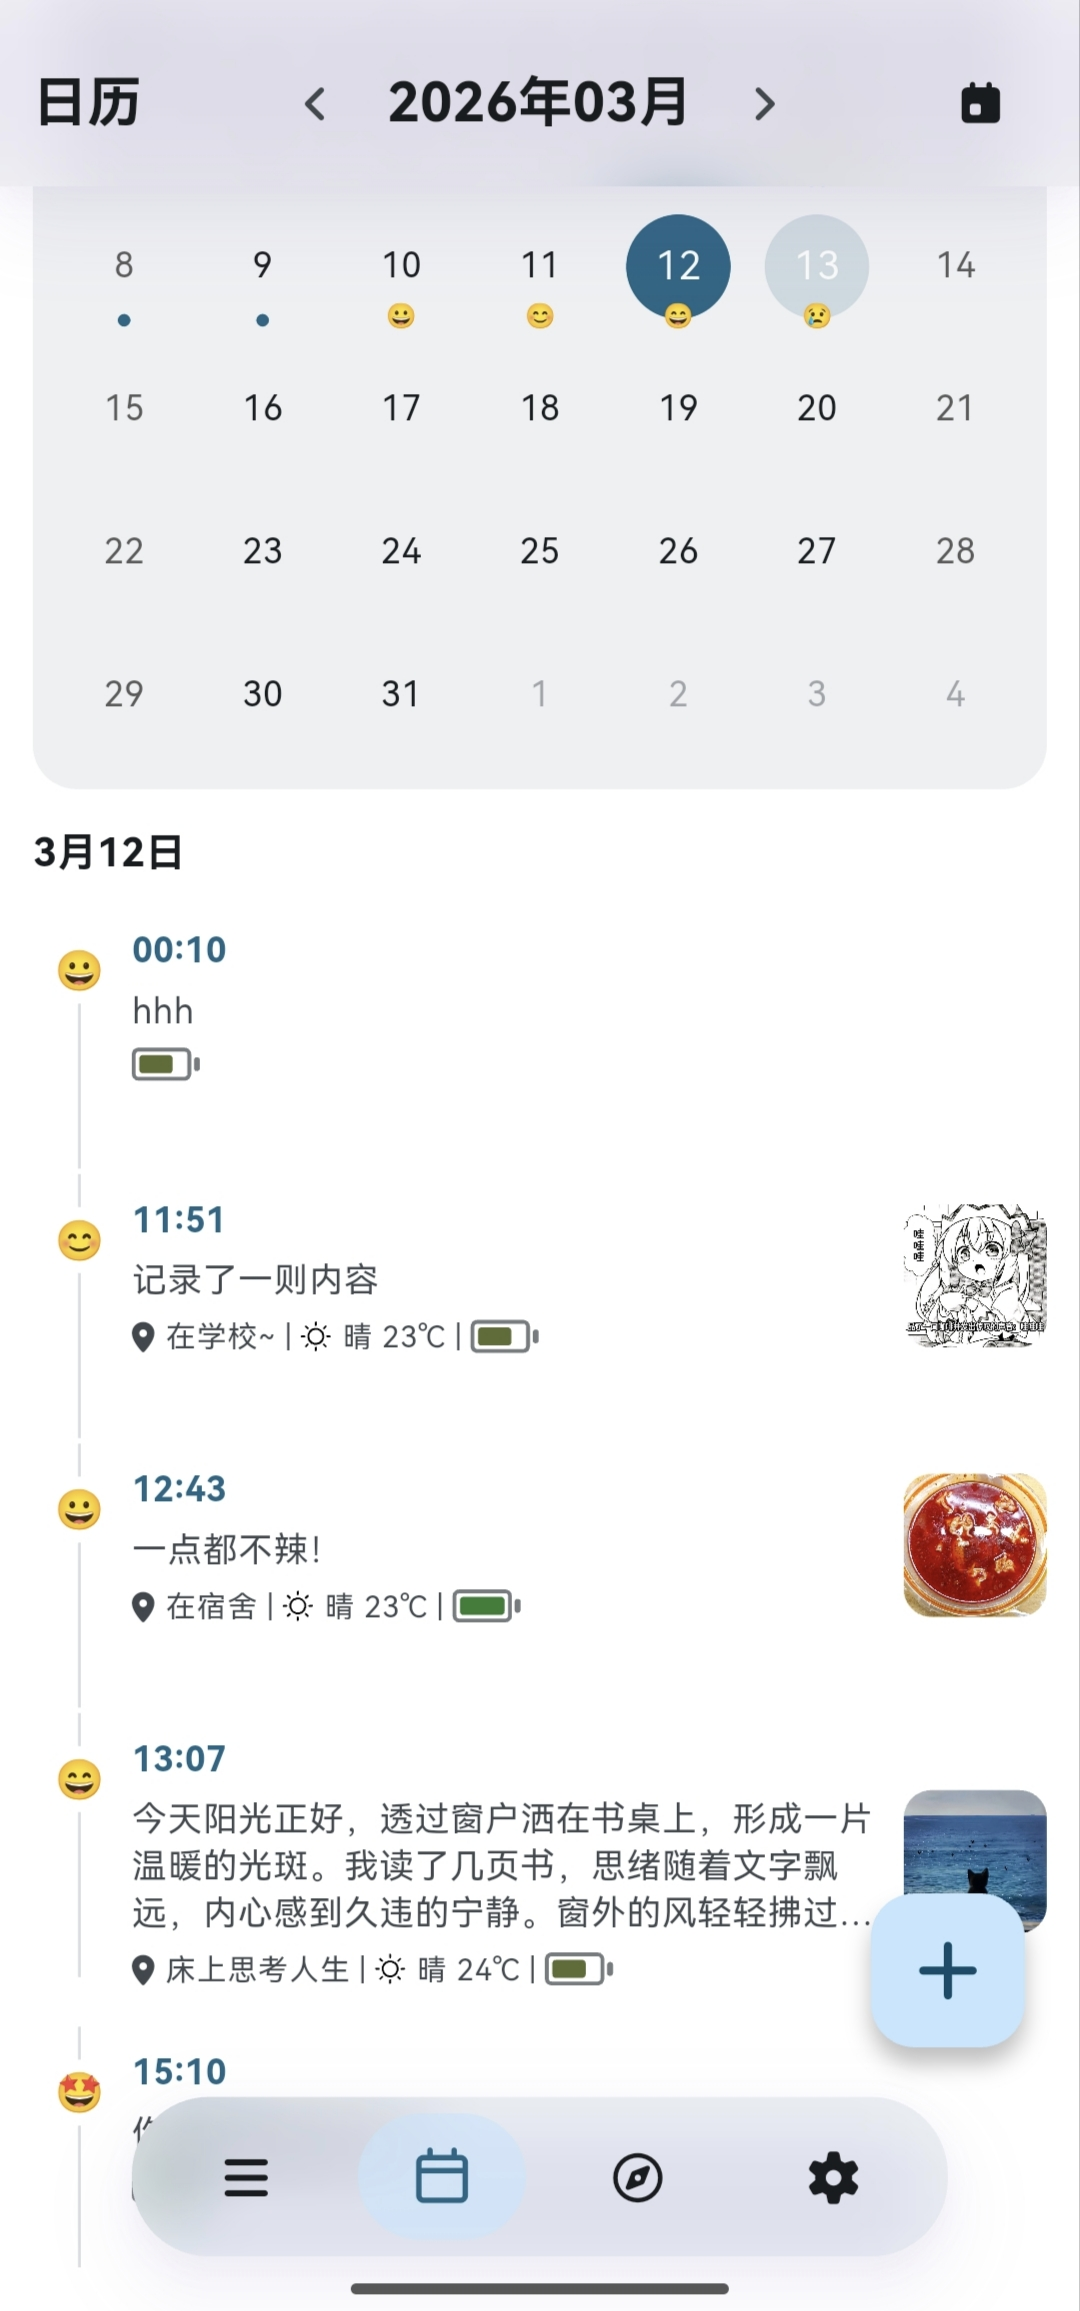
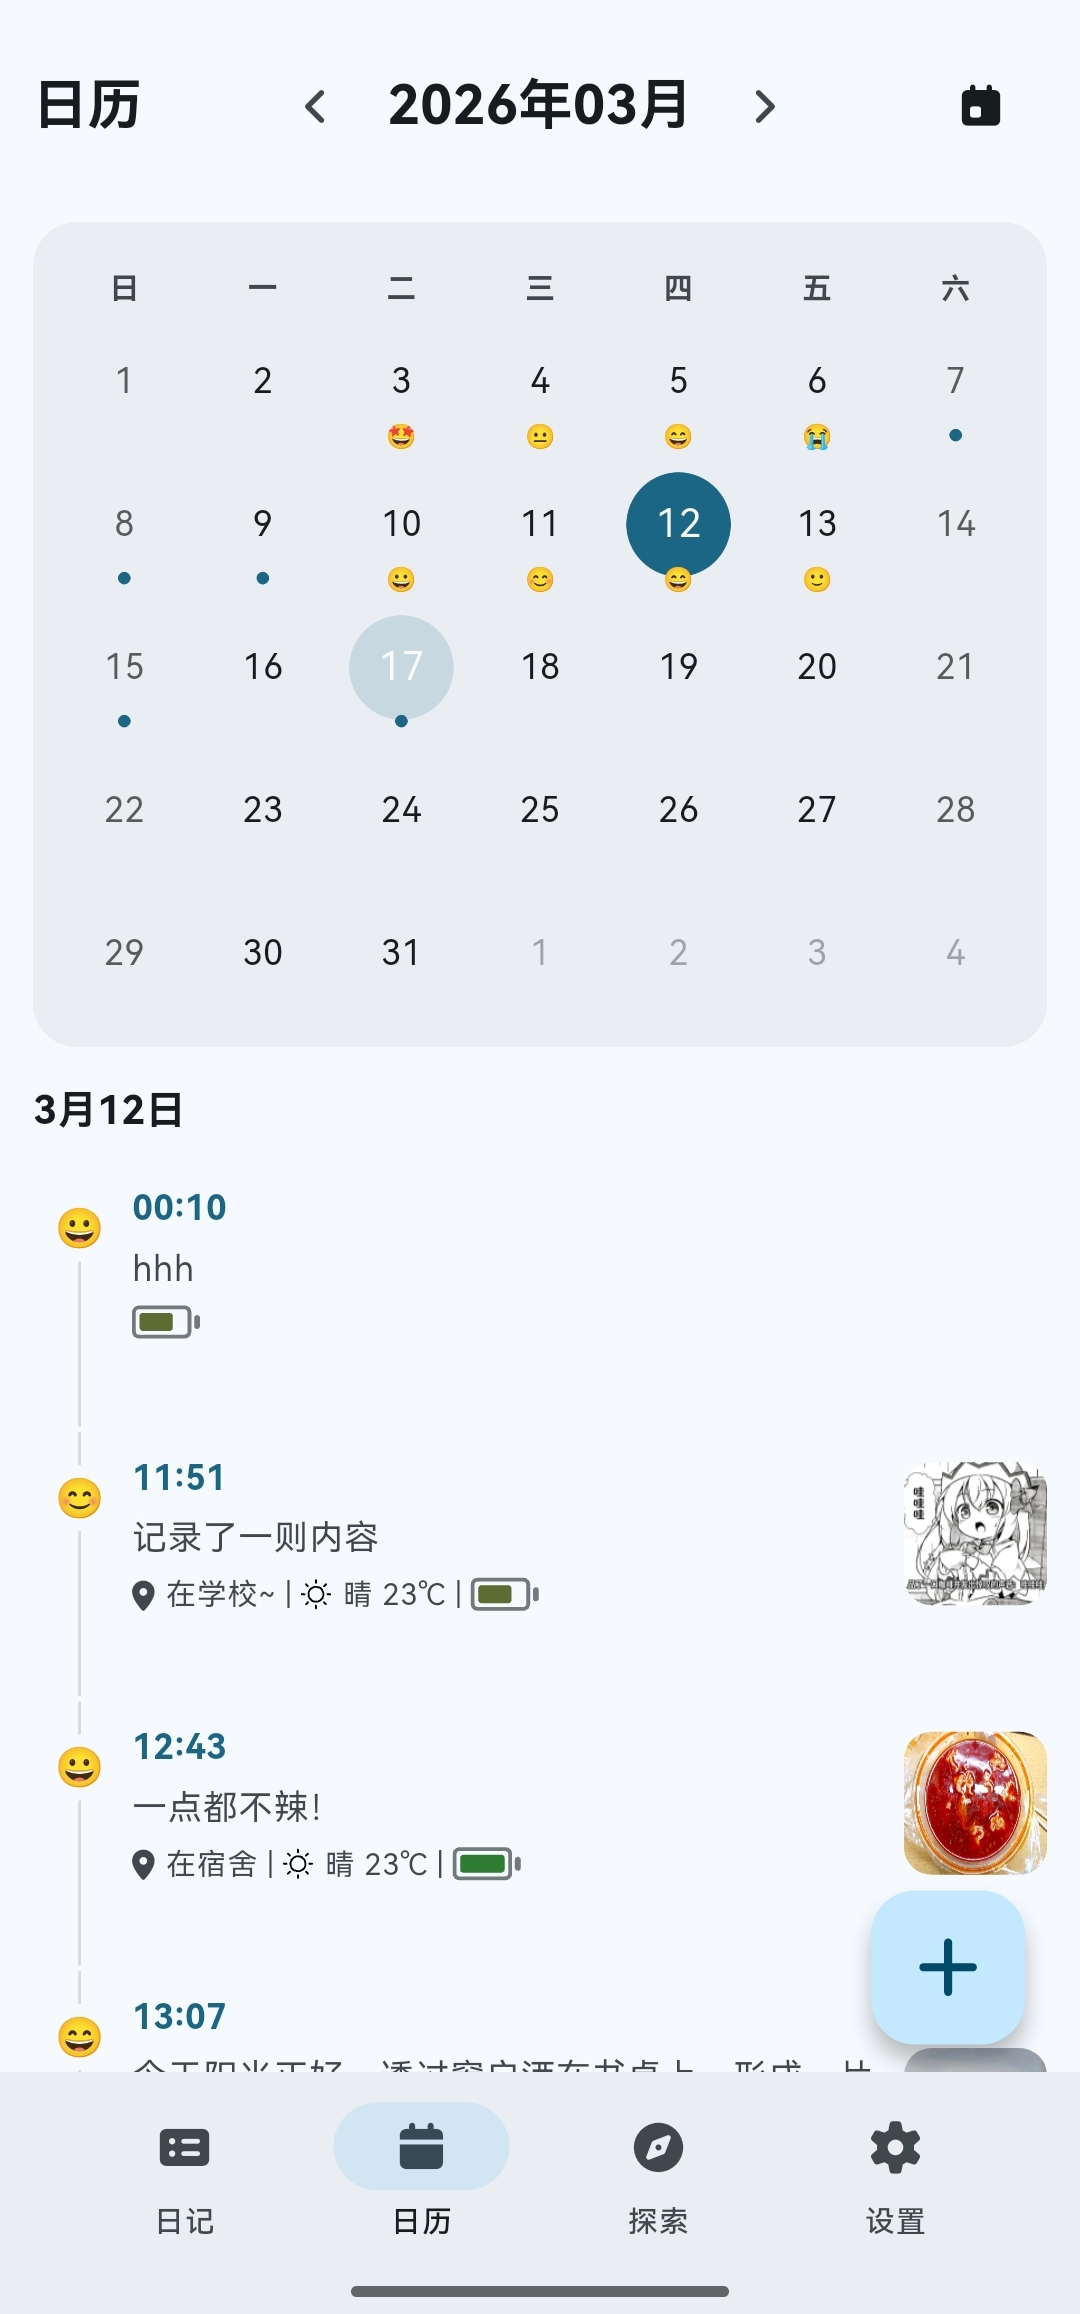
docs: 默认中文展示并补充双语发布说明

diff --git a/README.md b/README.md
@@ -1,70 +1,66 @@
-# Jot - A Simple & Private Local Diary
+# Jot - 简单私密的本地日记本
 
-English | [简体中文](./docs/README.zh.md)
+[English](./docs/README.en.md) | 简体中文
 
 ![Release](https://img.shields.io/badge/Release-v0.1.0-orange?style=flat-square)
 
-Jot is a fully free and open-source local diary app.  
-The goal is simple: provide a clean writing tool with no ads, no forced account signup, and no network dependency.
+Jot 是一款完全免费、开源的本地日记应用。开发这款应用的初衷很简单：希望能有一个没有任何广告打扰、不用强制注册账号、不需要连网就能使用的纯粹记录工具。
 
-Here, you can safely write down your mood, quick thoughts, or daily notes.  
-All your diary entries and photos stay on your own phone and are fully under your control.
+在这里，你可以安心地记录每天的心情、随手的灵感或是生活流水账。你的所有日记和照片都只存放在你自己的手机里，完全由你自己掌控。
 
-## 📱 Screenshots
+## 📱 界面预览
 
 <div align="center">
-  <img src="assets/img/screenshots/home_list.jpg" width="30%" alt="Timeline View"/>
+  <img src="assets/img/screenshots/home_list.jpg" width="30%" alt="时间线视图"/>
   &nbsp;&nbsp;
-  <img src="assets/img/screenshots/diary_editor.jpg" width="30%" alt="Diary Editor"/>
+  <img src="assets/img/screenshots/diary_editor.jpg" width="30%" alt="日记编辑页"/>
   &nbsp;&nbsp;
-  <img src="assets/img/screenshots/calendar_overview.jpg" width="30%" alt="Calendar & Insights"/>
+  <img src="assets/img/screenshots/calendar_overview.jpg" width="30%" alt="时光日历与统计"/>
 </div>
 
-## 🌟 Core Features
+## 🌟 核心功能
 
-### ✍ Focused Writing Experience
+### ✍ 纯粹的写作体验
 
-A minimal interface with rich text and image support, designed to keep you focused on writing.
+极简的界面设计，支持图文混排，让你专注于写字本身。
 
-### 🏷 Environment Context Capture
+### 🏷 自动记录环境信息
 
-Jot can fetch weather and location while you write (with permission), and you can also edit them manually.  
-You can additionally record mood emoji and energy status for better reflection later.
+不只是一段文字。在你写日记时，应用可以获取当前天气和位置信息（需授权），你也可以手动调整。  
+同时支持记录心情 Emoji 与精力状态，方便后续回顾。
 
-### 📅 Calendar & Memories
+### 📅 日历与回忆
 
-Calendar view helps you revisit entries by date, and "On This Day" brings back memories from previous years.
+日历视图会根据你每天的记录展示状态。通过“那年今日”能力，你可以轻松翻看历史同期记忆。
 
-### 🔒 Strong Privacy by Default
+### 🔒 绝对的隐私安全
 
-- Local-first: no cloud server is required by default.
-- App lock: supports system biometric/device authentication.
-- Data export: supports encrypted backup export for your own storage.
+- 完全本地化：没有云端服务器，日记数据默认不上传。
+- 应用锁：支持系统生物认证/设备认证解锁，保护隐私。
+- 数据导出：支持加密打包导出，方便你自行备份到电脑或网盘。
 
-## 📥 Download & Install
+## 📥 下载与安装
 
-> ⚠ Note: Jot is currently in an early stage and only supports Android for now. More platforms may be supported later.
+> ⚠ 注：Jot 当前处于早期版本，暂时仅支持 Android，后续支持更多设备。
 
-Install steps:
+安装方式：
 
-1. Open the Releases page:  
+1. 进入项目 Releases 页面：  
    [https://github.com/CikeSeven/jotsy/releases](https://github.com/CikeSeven/jotsy/releases)
-2. Download the latest APK package.
-3. If you're not sure which one to choose, download the `arm64-v8a` build.
+2. 下载最新的安装包。
+3. 如果你不知道下载哪一个，建议下载 `arm64-v8a` 版本。
 
-## 💬 FAQ
+## 💬 常见问题
 
-### Q: How do I migrate my diary data to a new phone?
+### Q: 换新手机了，日记怎么迁移？
 
-A: Since Jot is local-first, there is no automatic cloud sync.  
-Use "Export Backup" in Settings on your old phone, transfer the backup file, then import it on the new phone.
+A: 由于应用是纯本地存储，不会自动云同步。请在旧手机“设置”中使用“导出备份”生成备份文件，传到新手机后再通过“导入备份”恢复数据。
 
-### Q: Why can't weather/location be fetched?
+### Q: 为什么获取不到天气和定位？
 
-A: Please check location permission and network status.  
-Location is only used for display in your diary entry and is not uploaded as tracking data.
+A: 请检查是否授予了位置信息权限，以及网络是否正常。位置信息仅用于当前日记展示，不会用于上传轨迹。
 
-## 🐛 Feedback & Suggestions
+## 🐛 反馈与建议
 
-Found a bug or have an idea? Please open an issue:  
+如果你遇到 Bug，或有新功能建议，欢迎到 GitHub Issues 反馈：  
 [https://github.com/CikeSeven/jotsy/issues](https://github.com/CikeSeven/jotsy/issues)

diff --git a/docs/README.en.md b/docs/README.en.md
@@ -1,0 +1,70 @@
+# Jot - A Simple & Private Local Diary
+
+English | [简体中文](../README.md)
+
+![Release](https://img.shields.io/badge/Release-v0.1.0-orange?style=flat-square)
+
+Jot is a fully free and open-source local diary app.  
+The goal is simple: provide a clean writing tool with no ads, no forced account signup, and no network dependency.
+
+Here, you can safely write down your mood, quick thoughts, or daily notes.  
+All your diary entries and photos stay on your own phone and are fully under your control.
+
+## 📱 Screenshots
+
+<div align="center">
+  <img src="../assets/img/screenshots/home_list.jpg" width="30%" alt="Timeline View"/>
+  &nbsp;&nbsp;
+  <img src="../assets/img/screenshots/diary_editor.jpg" width="30%" alt="Diary Editor"/>
+  &nbsp;&nbsp;
+  <img src="../assets/img/screenshots/calendar_overview.jpg" width="30%" alt="Calendar & Insights"/>
+</div>
+
+## 🌟 Core Features
+
+### ✍ Focused Writing Experience
+
+A minimal interface with rich text and image support, designed to keep you focused on writing.
+
+### 🏷 Environment Context Capture
+
+Jot can fetch weather and location while you write (with permission), and you can also edit them manually.  
+You can additionally record mood emoji and energy status for better reflection later.
+
+### 📅 Calendar & Memories
+
+Calendar view helps you revisit entries by date, and "On This Day" brings back memories from previous years.
+
+### 🔒 Strong Privacy by Default
+
+- Local-first: no cloud server is required by default.
+- App lock: supports system biometric/device authentication.
+- Data export: supports encrypted backup export for your own storage.
+
+## 📥 Download & Install
+
+> ⚠ Note: Jot is currently in an early stage and only supports Android for now. More platforms may be supported later.
+
+Install steps:
+
+1. Open the Releases page:  
+   [https://github.com/CikeSeven/jotsy/releases](https://github.com/CikeSeven/jotsy/releases)
+2. Download the latest APK package.
+3. If you're not sure which one to choose, download the `arm64-v8a` build.
+
+## 💬 FAQ
+
+### Q: How do I migrate my diary data to a new phone?
+
+A: Since Jot is local-first, there is no automatic cloud sync.  
+Use "Export Backup" in Settings on your old phone, transfer the backup file, then import it on the new phone.
+
+### Q: Why can't weather/location be fetched?
+
+A: Please check location permission and network status.  
+Location is only used for display in your diary entry and is not uploaded as tracking data.
+
+## 🐛 Feedback & Suggestions
+
+Found a bug or have an idea? Please open an issue:  
+[https://github.com/CikeSeven/jotsy/issues](https://github.com/CikeSeven/jotsy/issues)

diff --git a/docs/releases/v0.2.0+4.en.md b/docs/releases/v0.2.0+4.en.md
@@ -1,0 +1,37 @@
+# Release v0.2.0+4
+
+English | [简体中文](./v0.2.0+4.md)
+
+## Highlights
+- Migrated core app surfaces from glass style to Material style.
+- Improved navigation and list interactions for smoother daily use.
+- Added practical customization options in Settings and Editor.
+- Added in-app version check and guided download flow.
+
+## Added
+- Added theme color selection in Settings.
+- Added app font scaling setting with preview and confirm-to-apply flow.
+- Added editor settings subpage and editor-only options:
+  - Editor font size
+  - Paragraph line height
+- Added tab/page transition curve selection in Settings.
+- Added "Check for updates" in About:
+  - Detects latest release
+  - Shows release notes before download
+  - Lets user decide whether to continue download
+  - Falls back to mirror endpoint when direct access fails and remembers available endpoint
+
+## Changed
+- Replaced glass-like UI layers with Material color roles across major pages.
+- Reworked bottom navigation to Material style with better icon/label consistency.
+- Optimized diary list app bar hide/show behavior while keeping tag area interaction stable.
+- Adjusted diary excerpt line limits:
+  - Normal list: 2 lines
+  - Masonry list: 3 lines
+- Improved About page visual style to align with Material surfaces.
+
+## Fixed
+- Fixed multiple scroll jitter and layout overlap issues around top bars and tag area.
+- Fixed several light/dark theme color mismatches in tags, search area, and separators.
+- Fixed delayed apply issue for editor settings when returning from settings page.
+- Changed app version display to dynamic runtime value instead of hardcoded text.

diff --git a/docs/releases/v0.2.0+4.md b/docs/releases/v0.2.0+4.md
@@ -1,0 +1,37 @@
+# Release v0.2.0+4
+
+[English](./v0.2.0+4.en.md) | 简体中文
+
+## 版本要点
+- 核心界面从毛玻璃风格迁移到 Material 风格。
+- 导航与列表交互手感优化，日常使用更顺滑。
+- 设置页与编辑器新增多项可配置能力。
+- 新增应用内检查新版本与下载引导流程。
+
+## 新增
+- 设置页新增主题色选择。
+- 新增应用字体大小设置，支持弹窗预览并在确认后应用。
+- 新增编辑器设置二级页面，并增加仅编辑页生效的选项：
+  - 编辑字体大小
+  - 正文行距
+- 设置页新增页面切换曲线选项。
+- 关于页新增“检查最新版本”：
+  - 检测远程最新 release
+  - 下载前先展示更新内容
+  - 由用户确认后再继续下载
+  - 直连失败时自动回退镜像并记忆可用入口
+
+## 调整
+- 主要页面移除毛玻璃相关视觉层，统一使用 Material 语义配色。
+- 底部导航改为 Material 风格，图标和文案一致性更好。
+- 优化日记列表应用栏隐藏/显示逻辑，并保持标签区交互稳定。
+- 调整日记摘要显示行数：
+  - 普通列表：2 行
+  - 瀑布流列表：3 行
+- 关于页卡片与整体配色改为 Material 风格。
+
+## 修复
+- 修复顶部区域滚动过程中的多处卡顿、抖动和重叠问题。
+- 修复标签区、搜索区、分割线在明暗主题下的部分配色问题。
+- 修复编辑器设置修改后返回编辑页未立即生效的问题。
+- 应用版本号展示改为运行时动态读取，移除写死版本文本。

diff --git a/docs/releases/v0.2.0+4.zh.md b/docs/releases/v0.2.0+4.zh.md
@@ -1,0 +1,37 @@
+# Release v0.2.0+4
+
+[English](./v0.2.0+4.en.md) | 简体中文
+
+## 版本要点
+- 核心界面从毛玻璃风格迁移到 Material 风格。
+- 导航与列表交互手感优化，日常使用更顺滑。
+- 设置页与编辑器新增多项可配置能力。
+- 新增应用内检查新版本与下载引导流程。
+
+## 新增
+- 设置页新增主题色选择。
+- 新增应用字体大小设置，支持弹窗预览并在确认后应用。
+- 新增编辑器设置二级页面，并增加仅编辑页生效的选项：
+  - 编辑字体大小
+  - 正文行距
+- 设置页新增页面切换曲线选项。
+- 关于页新增“检查最新版本”：
+  - 检测远程最新 release
+  - 下载前先展示更新内容
+  - 由用户确认后再继续下载
+  - 直连失败时自动回退镜像并记忆可用入口
+
+## 调整
+- 主要页面移除毛玻璃相关视觉层，统一使用 Material 语义配色。
+- 底部导航改为 Material 风格，图标和文案一致性更好。
+- 优化日记列表应用栏隐藏/显示逻辑，并保持标签区交互稳定。
+- 调整日记摘要显示行数：
+  - 普通列表：2 行
+  - 瀑布流列表：3 行
+- 关于页卡片与整体配色改为 Material 风格。
+
+## 修复
+- 修复顶部区域滚动过程中的多处卡顿、抖动和重叠问题。
+- 修复标签区、搜索区、分割线在明暗主题下的部分配色问题。
+- 修复编辑器设置修改后返回编辑页未立即生效的问题。
+- 应用版本号展示改为运行时动态读取，移除写死版本文本。

diff --git a/docs/README.zh.md b/docs/README.zh.md
@@ -1,6 +1,6 @@
 # Jot - 简单私密的本地日记本
 
-[English](../README.md) | 简体中文
+[English](./README.en.md) | 简体中文
 
 ![Release](https://img.shields.io/badge/Release-v0.1.0-orange?style=flat-square)
 
